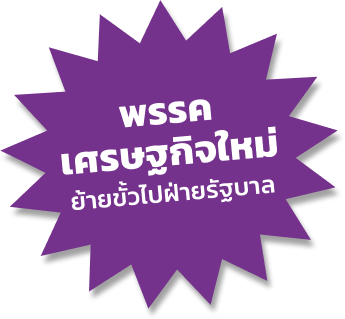
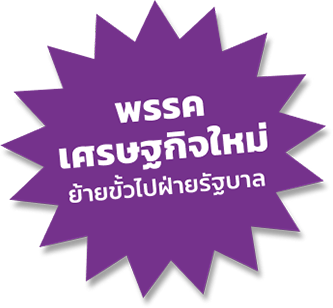
fix: make sankey newecon smaller

diff --git a/src/components/s12/sankey.svelte b/src/components/s12/sankey.svelte
@@ -569,8 +569,8 @@
 
 	.sankey-img-newecon {
 		position: absolute;
-		bottom: 0;
-		height: 100%;
+		bottom: 10%;
+		height: 80%;
 		opacity: 0;
 		left: 66.5%;
 		transform: translateX(-50%) scale(0);
